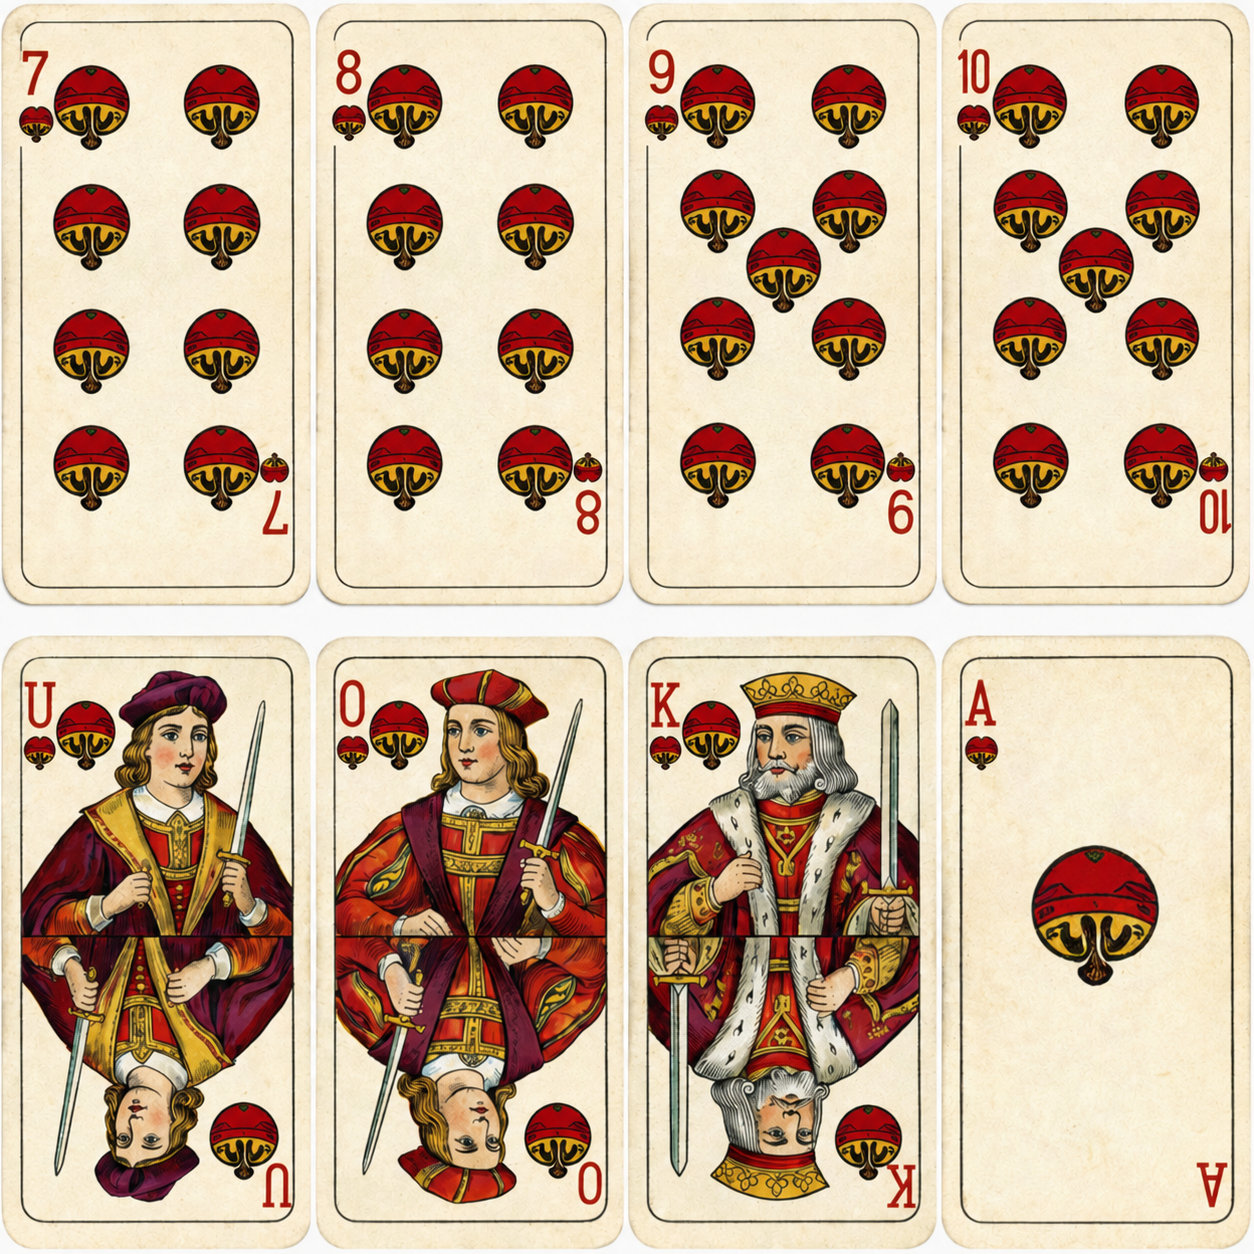
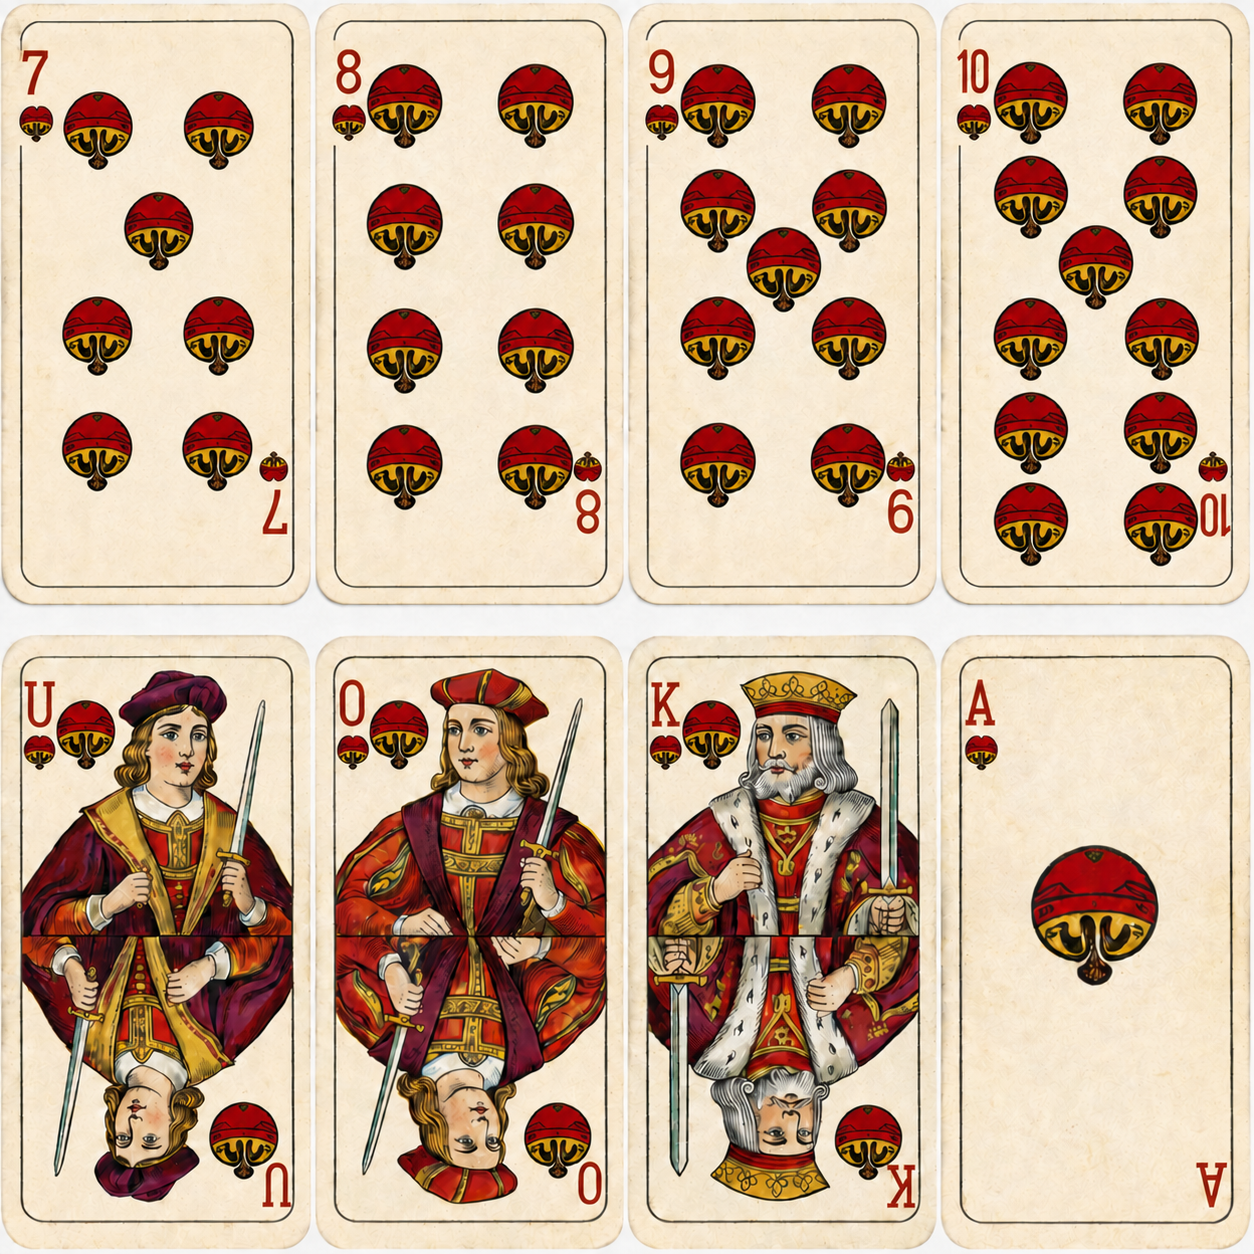
Optimize card art for web

diff --git a/src/styles.css b/src/styles.css
@@ -409,19 +409,19 @@ h1 {
 }
 
 .suit-cervene {
-  background-image: url("../cards_hearts.png");
+  background-image: url("../cards_hearts.webp");
 }
 
 .suit-kule {
-  background-image: url("../cards_bells.png");
+  background-image: url("../cards_bells.webp");
 }
 
 .suit-zelene {
-  background-image: url("../cards_leaves.png");
+  background-image: url("../cards_leaves.webp");
 }
 
 .suit-zaludy {
-  background-image: url("../cards_acorns.png");
+  background-image: url("../cards_acorns.webp");
 }
 
 .rank-7 {
@@ -478,7 +478,7 @@ h1 {
   margin-right: -18px;
   border: 2px solid rgb(255 255 255 / 0.9);
   border-radius: 6px;
-  background-image: url("../card_back.png");
+  background-image: url("../card_back.webp");
   background-size: cover;
   background-position: center;
   box-shadow: